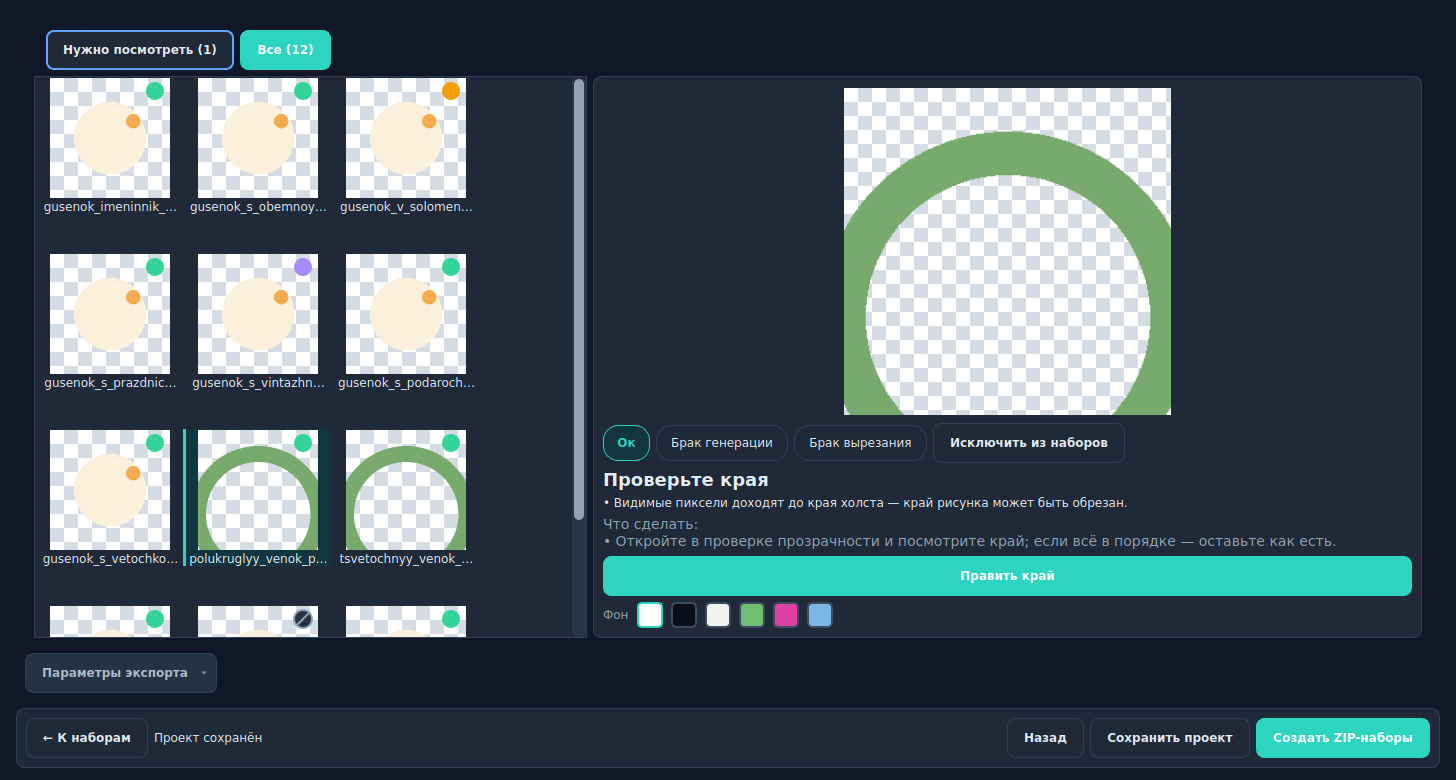
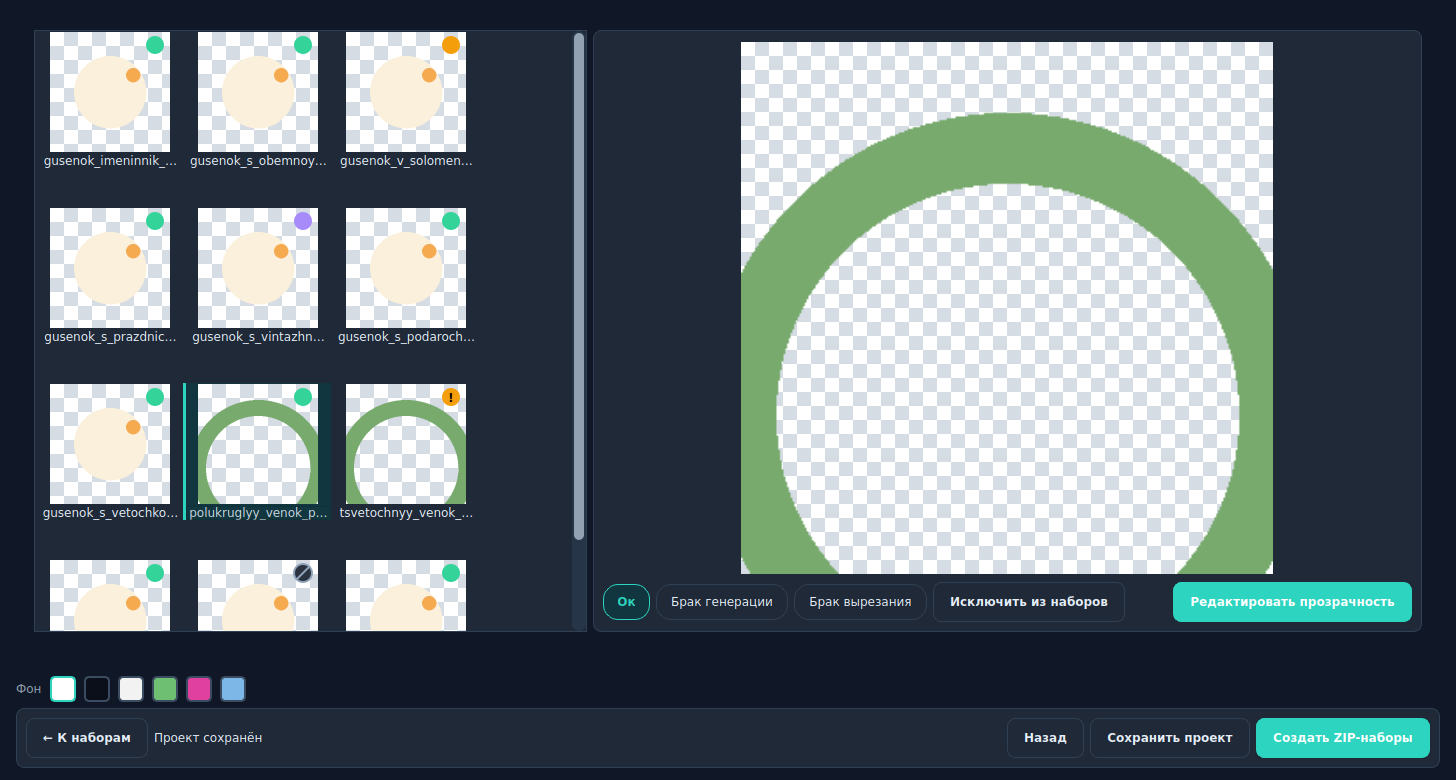
docs: PNG check mockup v2 after owner remarks [skip ci]

diff --git a/docs/ui/3.2/ui-polish-20261027/render_png_check.py b/docs/ui/3.2/ui-polish-20261027/render_png_check.py
@@ -34,7 +34,7 @@ for i, n in enumerate(names):
 
 
 
-MARKS = {0: "ok", 1: "ok", 2: "bad_generation", 3: "ok", 4: "bad_cutout", 5: "ok", 6: "ok", 7: "ok", 8: "ok", 9: "ok", 10: "ok", 11: "ok"}
+MARKS = {0: "ok", 1: "ok", 2: "bad_generation", 3: "ok", 4: "bad_cutout", 5: "ok", 6: "ok", 7: "ok", 8: "unchecked", 9: "ok", 10: "ok", 11: "ok"}
 EXCLUDED = {10}
 from PyQt6.QtCore import QSize
 from PyQt6.QtGui import QColor, QFont, QIcon, QPainter, QPen
@@ -42,6 +42,7 @@ DOT = {"ok": "#34d399", "bad_generation": "#f59e0b", "bad_cutout": "#a78bfa"}
 
 
 def build(proposed):
+    reports[8] = AlphaQcReport(str(paths[8].resolve()), "review", (AlphaQcIssue("touches_edge", "review", "x", "y"),), 300, 300)
     panel = SetExportDialog(paths, quality_reports=reports, embedded=True, project_name="Гусёнок")
     panel.enable_marks({str(p.resolve()): MARKS[i] for i, p in enumerate(paths)})
     if proposed:
@@ -59,6 +60,10 @@ def build(proposed):
             if idx in EXCLUDED:
                 p.setPen(QPen(QColor("#8ea3b8"), 2)); p.setBrush(QColor("#2b3340")); p.drawEllipse(size - 24, 4, 18, 18)
                 p.drawLine(size - 21, 19, size - 9, 7)
+            elif mark != "ok" and report.status != "ok" and mark not in DOT:
+                p.setPen(Qt.PenStyle.NoPen); p.setBrush(QColor("#f59e0b")); p.drawEllipse(size - 24, 4, 18, 18)
+                p.setPen(QColor("#1f1300")); f = QFont(p.font()); f.setPixelSize(13); f.setBold(True); p.setFont(f)
+                p.drawText(size - 24, 4, 18, 18, int(Qt.AlignmentFlag.AlignCenter), "!")
             elif mark in DOT:
                 p.setPen(Qt.PenStyle.NoPen); p.setBrush(QColor(DOT[mark])); p.drawEllipse(size - 24, 4, 18, 18)
             p.end()
@@ -69,35 +74,40 @@ def build(proposed):
         panel._quality_icon = dot_icon
     panel._show_quality_review()
     panel.quality_list.setCurrentRow(7)
+    swatches = None
     if proposed:
         page = panel.quality_page
-        page.layout().itemAt(0).layout().itemAt(0).widget().hide()          # title
-        panel.quality_page_summary_label.hide()                              # «Просмотрено N из M»
-        fl = page.layout().itemAt(0).layout()
-        for i in range(fl.count()):                                          # drop the «Фон» label and chips from the top row
-            w = fl.itemAt(i).widget()
-            if w is not None and (w in panel.quality_background_buttons.values() or (isinstance(w, QLabel) and w.text() == "Фон")):
+        top = page.layout().itemAt(0).layout()
+        for k in range(top.count()):                       # no title, counter, filter buttons or background chips on top
+            w = top.itemAt(k).widget()
+            if w is not None:
                 w.hide()
-        detail = panel.quality_issue_title.parentWidget().layout()
-        # marks + exclude in one row
-        panel.quality_marks_row.layout().insertWidget(3, panel.quality_exclude_button)
+        for w in (panel.quality_issue_title, panel.quality_issue_text, panel.quality_action_text):
+            w.hide()                                       # no «Проверьте края» and no instructions: the picture gets the room
         panel.quality_exclude_button.setText("Исключить из наборов")
-        # swatches where «Исключить» stood
-        sw = QWidget(); sl = QHBoxLayout(sw); sl.setContentsMargins(0, 0, 0, 0); sl.setSpacing(8)
+        panel.quality_marks_row.layout().insertWidget(3, panel.quality_exclude_button)
+        panel.quality_fix_button.setText("Редактировать прозрачность")
+        panel.quality_fix_button.setSizePolicy(panel.quality_fix_button.sizePolicy().Policy.Maximum, panel.quality_fix_button.sizePolicy().Policy.Fixed)
+        panel.quality_marks_row.layout().takeAt(panel.quality_marks_row.layout().count() - 1)  # stretch
+        panel.quality_marks_row.layout().addStretch(1)
+        panel.quality_marks_row.layout().addWidget(panel.quality_fix_button)
+        panel.quality_back_button.hide()
+        swatches = QWidget(); sl = QHBoxLayout(swatches); sl.setContentsMargins(0, 0, 0, 0); sl.setSpacing(8)
         lab = QLabel("Фон"); lab.setProperty("v3Small", True); sl.addWidget(lab)
         for colour in ("#ffffff", "#0b0f19", "#f2f2f2", "#6fbf73", "#E040A0", "#7db7e8"):
             b = QFrame(); b.setFixedSize(26, 26)
             b.setStyleSheet(f"background:{colour}; border:2px solid {'#2dd4bf' if colour == '#ffffff' else '#3b4b60'}; border-radius:5px;")
             sl.addWidget(b)
         sl.addStretch(1)
-        panel.quality_fix_button.setText("Править край")
-        da = panel.quality_fix_button.parentWidget()
-        detail.addWidget(sw)
-        # «К наборам» goes to the window footer
-        panel.quality_back_button.hide()
+        # «Параметры экспорта» moved to the export step: the row below the panel now holds the background choice
+        for w in panel.findChildren(QWidget):
+            if hasattr(w, "text") and callable(w.text) and "Параметры экспорта" in str(w.text()):
+                w.hide()
     frame = QWidget(); apply_v3_theme(frame)
     lay = QVBoxLayout(frame); lay.setContentsMargins(16, 12, 16, 12)
     lay.addWidget(panel, 1)
+    if swatches is not None:
+        lay.addWidget(swatches)
     foot = QFrame(); foot.setProperty("v3Card", True); fl2 = QHBoxLayout(foot)
     if proposed:
         fl2.addWidget(V3Button("← К наборам", ButtonVariant.SECONDARY))

diff --git a/docs/ui/3.2/ui-polish-20261027/README.md b/docs/ui/3.2/ui-polish-20261027/README.md
@@ -1,7 +1,8 @@
-# ui-polish, шаг «Проверка PNG» (макет, 2026-10-27)
+# ui-polish, шаг «Проверка PNG» (макет v2, 2026-10-27)
 
-Макет собран из настоящего окна (render_png_check.py): png-check-now.png — как сейчас, png-check-proposed.png — как предлагается.
-Меняется: кружки оценок на превью вместо галочки и «!», нет заголовка и счётчика «Просмотрено N из M», выбор фона цветными квадратиками
-вместо кнопок наверху, «Исключить из наборов» в одном ряду с «Ок» и браками, короткая «Править край», «К наборам» внизу в подвале,
-«Параметры экспорта» уезжают на шаг экспорта (в этом макете они ещё показаны на старом месте). Остальное не меняется.
-Кружки: зелёный — Ок, оранжевый — брак генерации, фиолетовый — брак вырезания, серый перечёркнутый — исключено.
+Собран из настоящего окна (render_png_check.py): png-check-now.png — как сейчас, png-check-proposed.png — как предлагается.
+Правки владельца к v1: нет кнопок «Нужно посмотреть»/«Все», нет текстов «Проверьте края» и инструкций; значки на превью:
+зелёный — Ок, оранжевый — брак генерации, фиолетовый — брак вырезания, «!» — нужно посмотреть (без оценки), серый перечёркнутый — исключено;
+после «Ок» «!» пропадает. Фон — цветные квадратики внизу, над подвалом (на месте «Параметров экспорта», которые уходят на шаг экспорта).
+Кнопка «Редактировать прозрачность» — обычного размера, в одном ряду с «Ок», браками и «Исключить из наборов». Картинка занимает всю освободившуюся площадь;
+Ctrl+колесо — масштаб, пробел+мышь или средняя кнопка — перемещение, двойной клик — «по размеру». «К наборам» — внизу слева.
